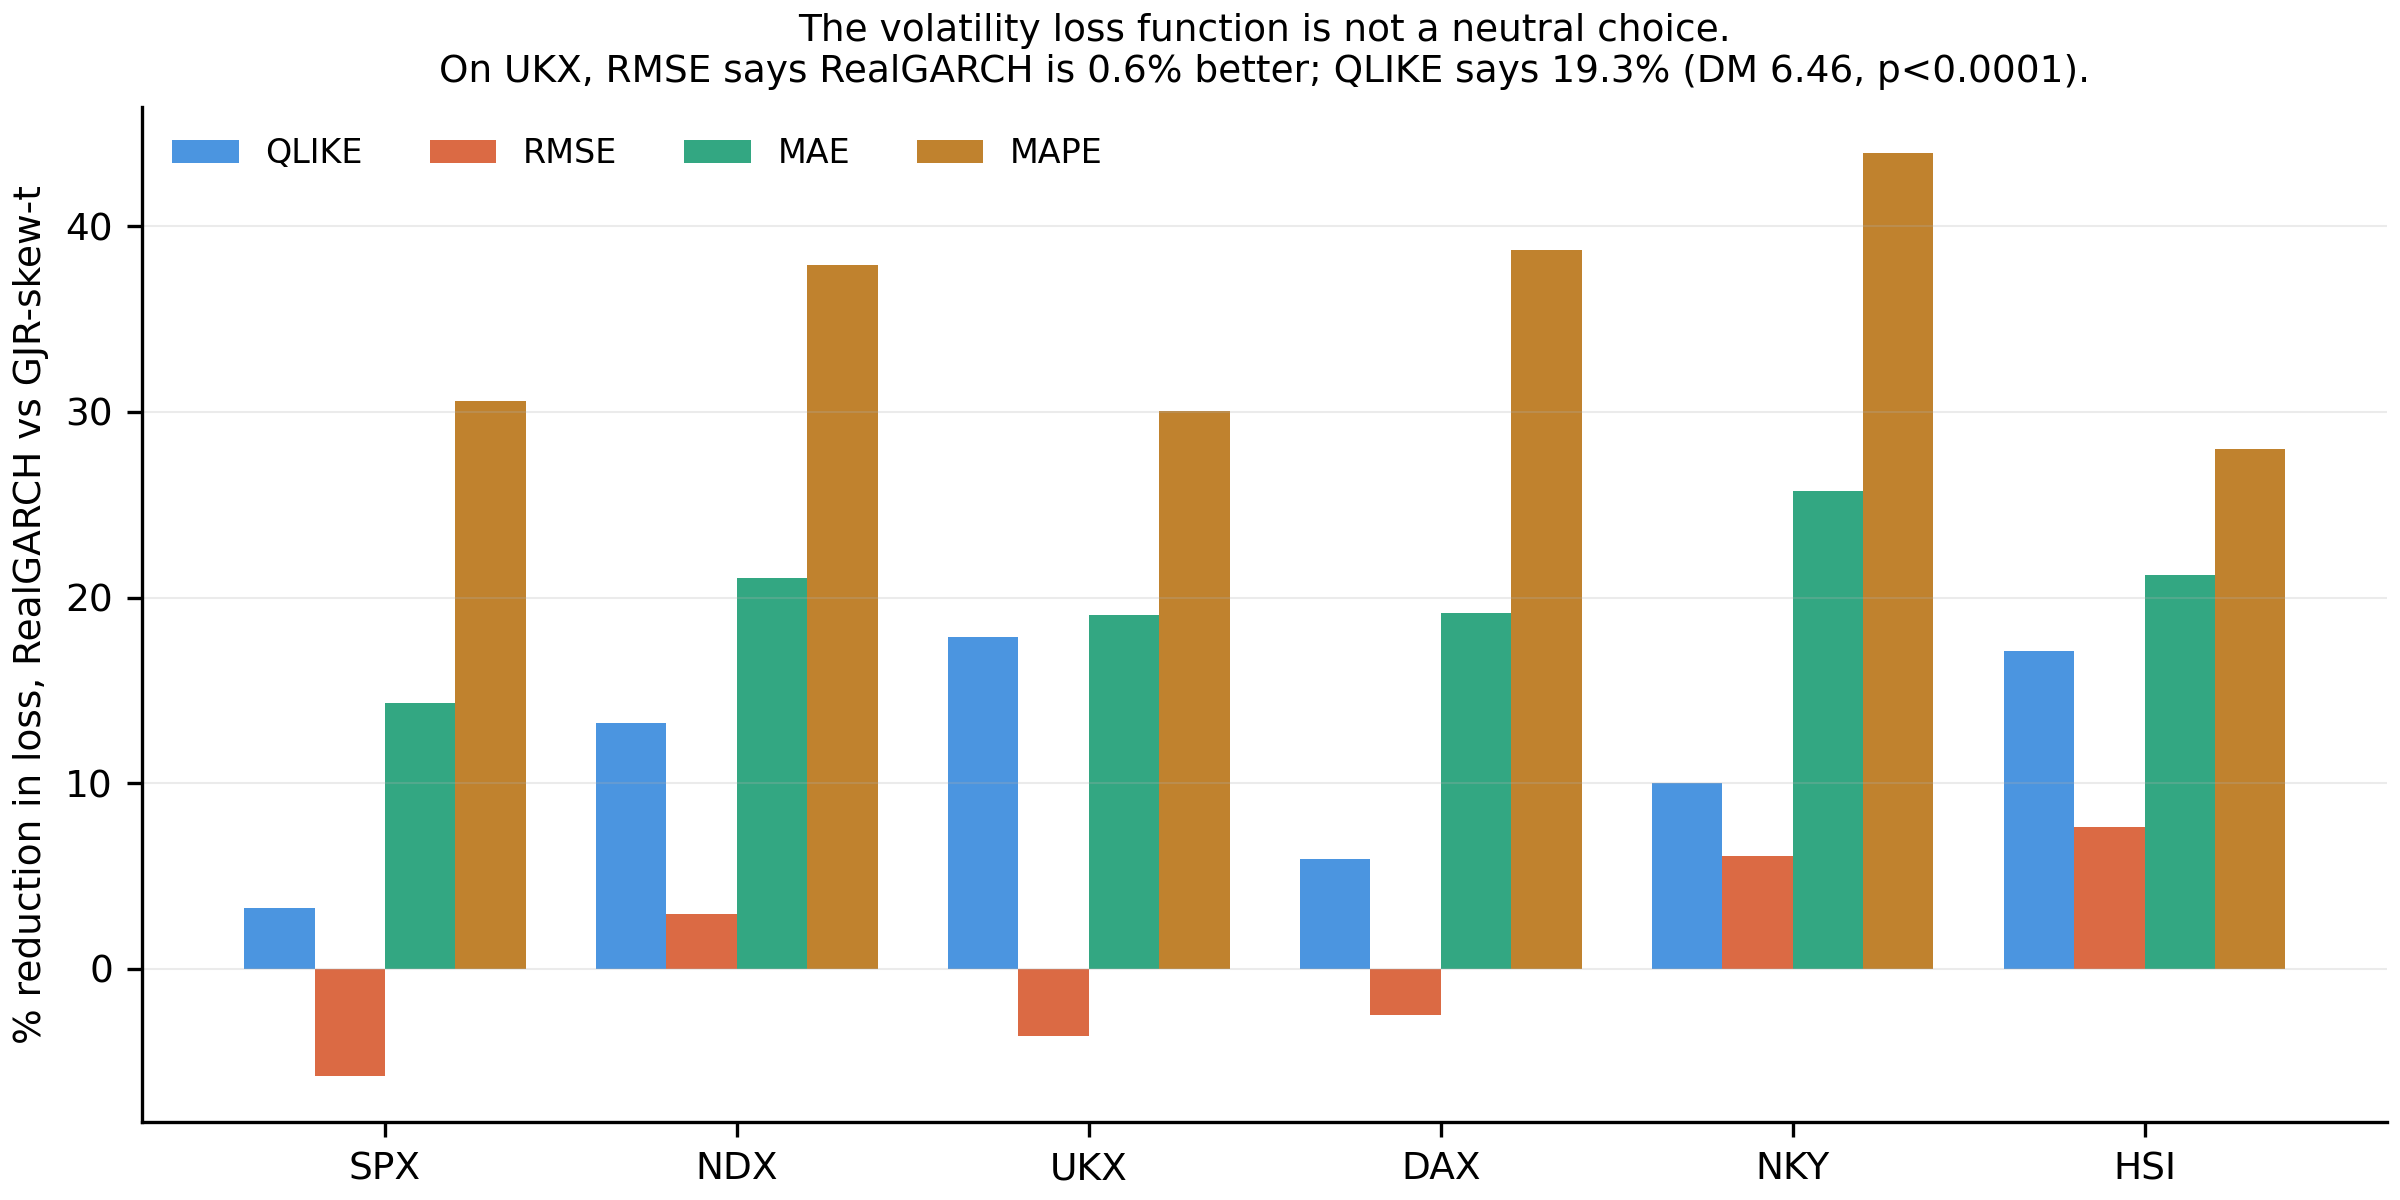
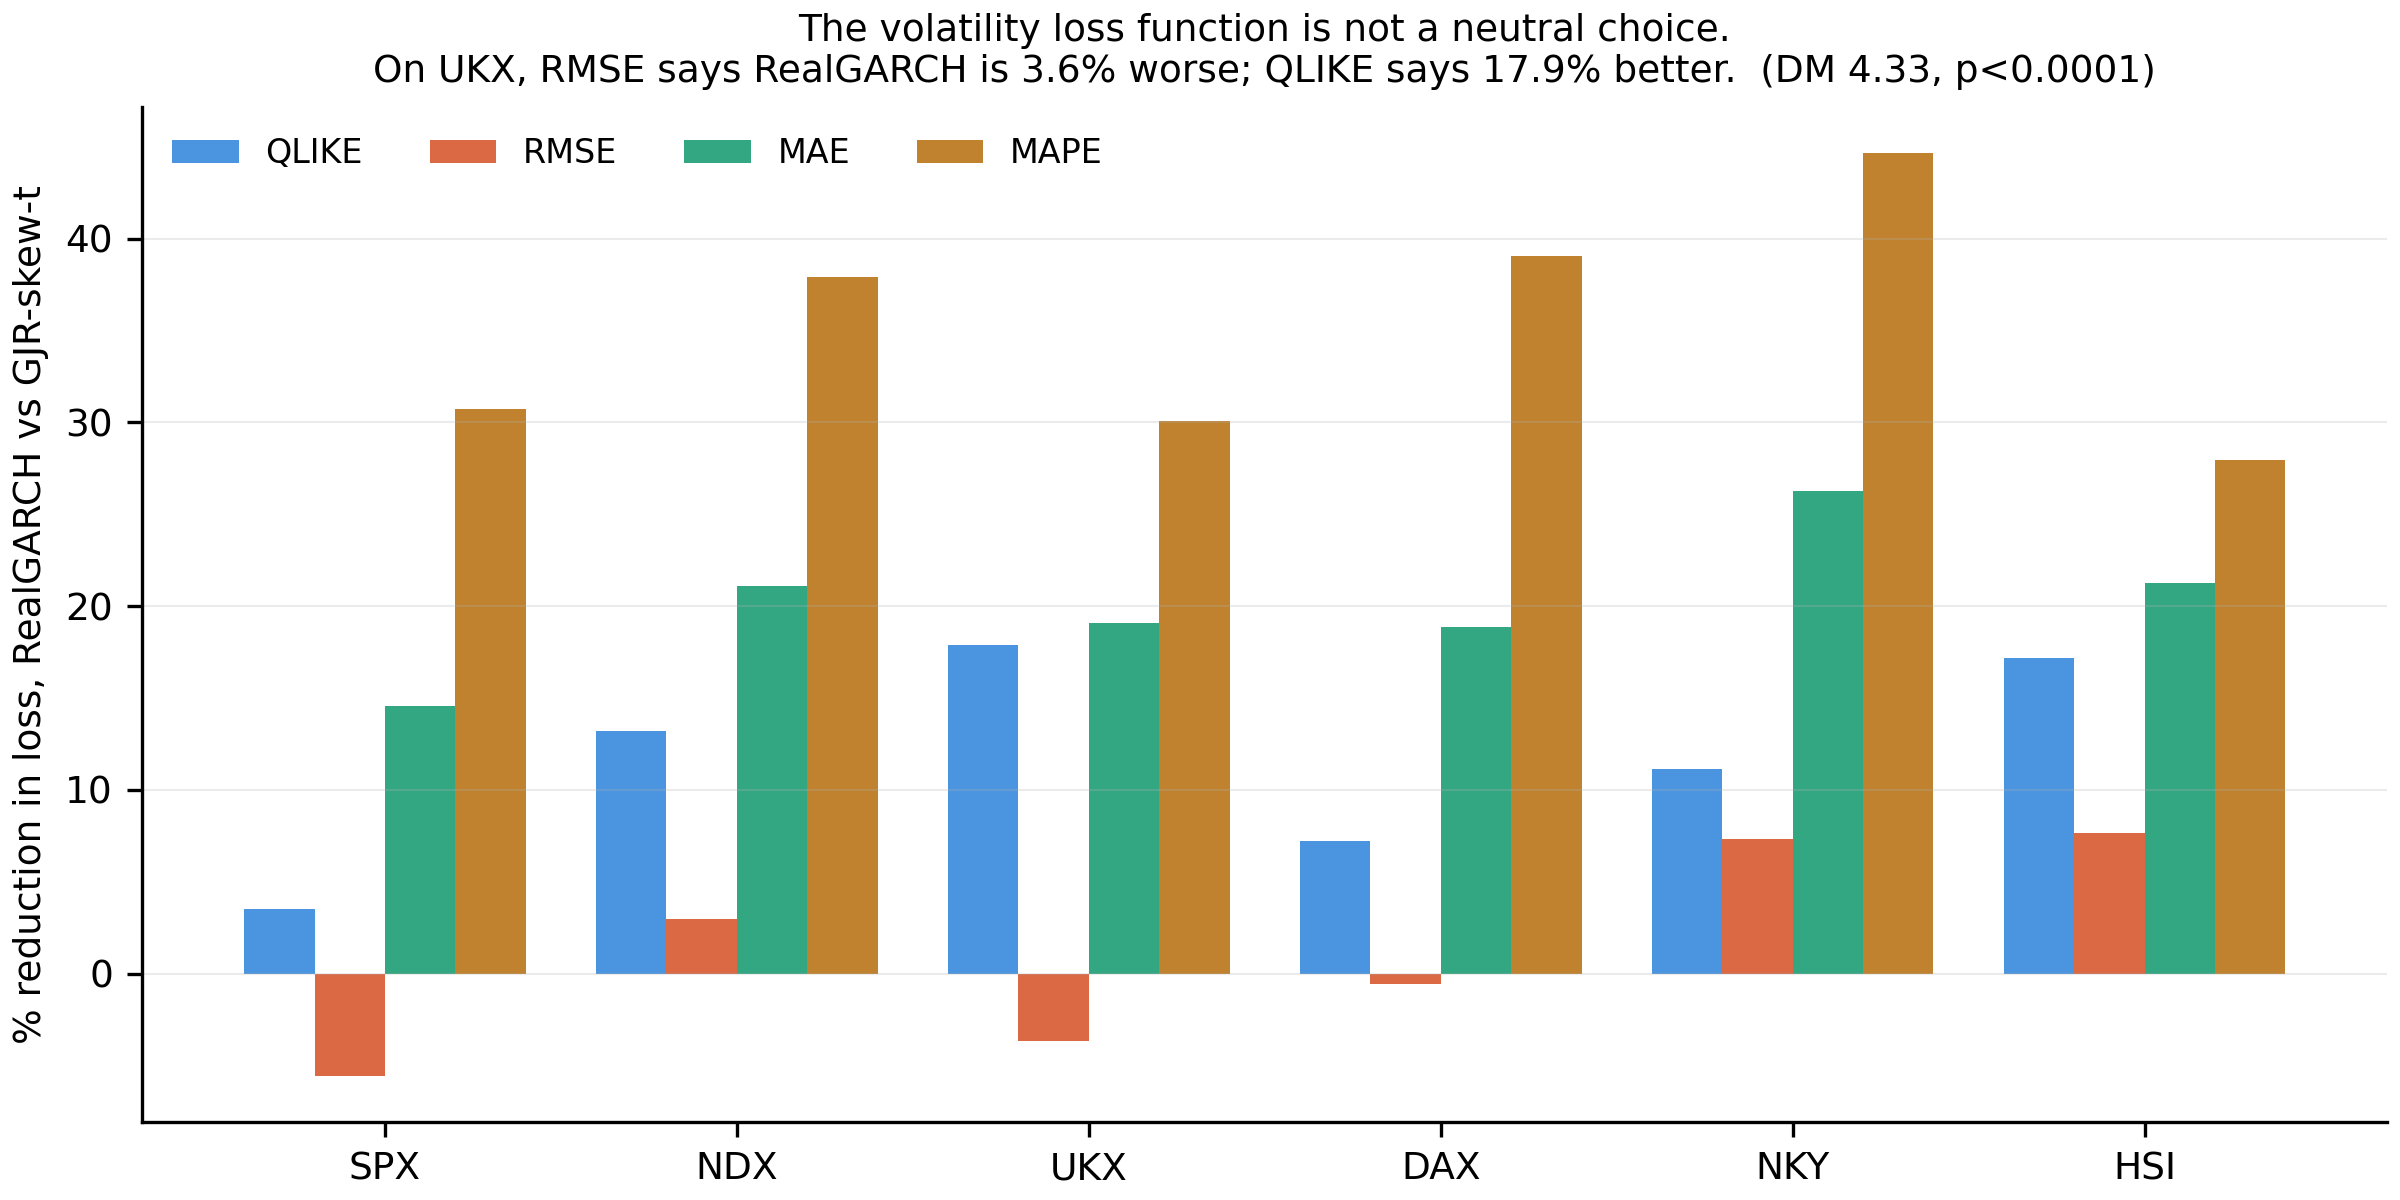
Fix hard-coded stale title and mixed evaluation window in 49_model_comparison
Verifying the FINAL_OUTPUTS manifest against the CSVs turned up two real
defects, not documentation slips.

1. 49_loss_metrics.png carried its caption as a frozen string literal
   while its bars were computed from the data. The caption claimed "On
   UKX, RMSE says RealGARCH is 0.6% better; QLIKE says 19.3% (DM 6.46,
   p<0.0001)". All three numbers are stale, almost certainly predating
   the walk-forward RealGARCH and causal-scaling fixes. Actual values:
   RMSE -3.6% (RealGARCH worse), QLIKE +17.9%, DM 4.33. The caption
   contradicted its own chart. The title is now derived from the data,
   and the exhibit index is picked as the widest QLIKE-minus-RMSE gap
   among indices where the two metrics disagree on sign, rather than
   being named in the string.

2. 49_qlike_vs_breach.png took its y-axis from the strict common window
   but its x-axis from 47a_volatility_losses.csv, the unrestricted file.
   Eight of the eighteen plotted cells therefore had a different sample
   on each axis (DAX worst, 3172 vs 2755 observations). The same frame
   fed the loss-metrics figure. It now loads the strict file with the
   same existence-check fallback already used for the backtests. The
   effect is visually negligible - QLIKE shifts at most 1.4% relative
   and no ranking changes - so no conclusion moves, but the figure is
   now internally consistent and matches the tables beside it.

Reran 49_model_comparison.py: 49_basel.csv, 49_basel_unrestricted.csv,
[…]

diff --git a/Datasets/10_SCRIPTS/49_model_comparison.py b/Datasets/10_SCRIPTS/49_model_comparison.py
@@ -207,7 +207,12 @@ def main():
                  fontsize=9.5)
     fig.savefig('results/figures/49_scorecard.png'); plt.close(fig)
 
-    vol = pd.read_csv('results/tables/47a_volatility_losses.csv')
+    # Must be the strict window, like `bt` above: the breach rate on the y-axis of
+    # 49_qlike_vs_breach is strict, so a QLIKE on the x-axis measured over a longer
+    # sample would put the two axes on different samples for 8 of the 18 cells.
+    _vol_strict = 'results/tables/47a_volatility_losses_strict.csv'
+    vol = pd.read_csv(_vol_strict if os.path.exists(_vol_strict)
+                      else 'results/tables/47a_volatility_losses.csv')
     fig, ax = plt.subplots(figsize=(7.4, 5.0), constrained_layout=True)
     for j, m in enumerate(VOL_MODELS):
         q = [vol[(vol['index'] == c) & (vol['model'] == m)]['QLIKE'].iloc[0] for c in INDICES]
@@ -247,18 +252,37 @@ def main():
     fig, ax = plt.subplots(figsize=(8.0, 4.0), constrained_layout=True)
     mets = ['QLIKE', 'RMSE', 'MAE', 'MAPE']
     x = np.arange(len(INDICES)); w = 0.2
+    red = {}
     for k, met in enumerate(mets):
         imp = []
         for c in INDICES:
             gg = vol[(vol['index'] == c) & (vol['model'] == 'GJR-skewt')][met].iloc[0]
             rr = vol[(vol['index'] == c) & (vol['model'] == 'RealGARCH')][met].iloc[0]
             imp.append(100*(gg-rr)/gg)
+        red[met] = dict(zip(INDICES, imp))
         ax.bar(x + (k-1.5)*w, imp, w, label=met, color=PAL[k], alpha=0.9)
     ax.set_xticks(x); ax.set_xticklabels(INDICES)
     ax.set_ylabel('% reduction in loss, RealGARCH vs GJR-skew-t')
+    # Pick the exhibit index from the data rather than hard-coding it: the widest
+    # QLIKE-minus-RMSE gap among indices where the two metrics disagree on sign.
+    _split = [c for c in INDICES
+              if red['QLIKE'][c] > 0 > red['RMSE'][c]] or list(INDICES)
+    _c = max(_split, key=lambda c: red['QLIKE'][c] - red['RMSE'][c])
+    _dmtxt = ''
+    _dmf = 'results/tables/47a_dm_volatility.csv'
+    if os.path.exists(_dmf):
+        _dm = pd.read_csv(_dmf)
+        _r = _dm[(_dm['index'] == _c) & (_dm.model_1 == 'GJR-skewt')
+                 & (_dm.model_2 == 'RealGARCH')]
+        if len(_r) and np.isfinite(_r.iloc[0]['p']):
+            _p = float(_r.iloc[0]['p'])
+            _dmtxt = (f"  (DM {float(_r.iloc[0]['dm_stat']):.2f}, "
+                      + (f"p<0.0001)" if _p < 1e-4 else f"p={_p:.4f})"))
+    _rm = red['RMSE'][_c]
     ax.set_title('The volatility loss function is not a neutral choice.\n'
-                 'On UKX, RMSE says RealGARCH is 0.6% better; QLIKE says 19.3% '
-                 '(DM 6.46, p<0.0001).', fontsize=9)
+                 f'On {_c}, RMSE says RealGARCH is {abs(_rm):.1f}% '
+                 f'{"worse" if _rm < 0 else "better"}; '
+                 f'QLIKE says {red["QLIKE"][_c]:.1f}% better.{_dmtxt}', fontsize=9)
     ax.legend(fontsize=8, ncol=4); ax.grid(alpha=0.25, lw=0.5, axis='y')
     fig.savefig('results/figures/49_loss_metrics.png'); plt.close(fig)
 

diff --git a/results/FINAL_OUTPUTS.md b/results/FINAL_OUTPUTS.md
@@ -17,7 +17,10 @@ the original filename is kept in the name so it traces back to the full results 
 opposite orders on them.** Realized GARCH has the lowest QLIKE on all six indices (best
 volatility forecasts), and simultaneously the worst 99% VaR breach rate on five of six —
 Basel *red* on four markets. GARCH-EVT is the mirror image: middling QLIKE, best-calibrated
-tail, Basel *green* on three and never red.
+tail, Basel *green* on four and never red.
+
+Every number below was checked against the CSVs on 2026-08-31, not carried over from an
+earlier draft.
 
 Every selection below either sets that claim up, demonstrates it, or qualifies it.
 
@@ -27,14 +30,14 @@ Every selection below either sets that claim up, demonstrates it, or qualifies i
 
 | # | File | What it shows | Section |
 |---|---|---|---|
-| 1 | `FIG1_41_threshold_stability.png` | GPD shape ξ vs POT threshold q, ±1 sampling SE. ξ is stable across 0.90–0.975 then explodes with sampling noise. | Methods — justifies q=0.95 |
-| 2 | `FIG2_41_qq_gpd.png` | GPD QQ plots of exceedances, all six indices. KS p = 0.49–0.95 everywhere. | Methods — EVT fit is valid |
+| 1 | `FIG1_41_threshold_stability.png` | GPD shape ξ vs POT threshold q, ±1 sampling SE (≈0.062). ξ drifts gently and stays inside the band from 0.90 to 0.975, then becomes erratic above it as the exceedance count collapses. | Methods — justifies q=0.95 |
+| 2 | `FIG2_41_qq_gpd.png` | GPD QQ plots of exceedances, all six indices. KS p = 0.49–0.95 at q=0.95; no index rejects. | Methods — EVT fit is valid |
 | 3 | `FIG3_43_var_breaches.png` | GARCH-EVT 99% VaR vs realised returns, six panels, breaches marked, crisis windows shaded. | Results — what the model does |
 | 4 | **`FIG4_49_qlike_vs_breach_HEADLINE.png`** | **QLIKE (x) vs 99% breach rate (y). The two axes rank the models in opposite orders. This is the paper's thesis in one scatter.** | **Results — headline** |
-| 5 | `FIG5_49_basel.png` | Basel traffic light, 6 indices × 5 models. RealGARCH red on 4, GARCH-EVT green on 3 and never red. | Results — regulatory payoff |
+| 5 | `FIG5_49_basel.png` | Basel traffic light, 6 indices × 5 models. RealGARCH red on 4 of 6; GARCH-EVT green on 4, amber on 2, never red. | Results — regulatory payoff |
 | 6 | `FIG6_48_crisis_heatmap.png` | Breach rate by regime (Normal, China/Oil, Q4-2018, COVID, 2022 rates), pooled over six indices. Every model degrades; RealGARCH and QR-Full worst (7.1% and 7.9% in COVID vs 1.0% target). | Results — regime conditioning |
 | 7 | `FIG7_45_qr_calibration.png` | QR-Full and QR-Range breach rates at 99/97.5/95%. The fifth model family's own calibration result. | Results — quantile regression |
-| 8 | `FIG8_49_loss_metrics.png` | RealGARCH vs GJR-skew-t under four loss functions. RMSE gives the **opposite sign** to QLIKE on SPX, UKX and DAX — on UKX, RMSE says RealGARCH is 0.6% *worse*, QLIKE says 19.3% better (DM 6.46, p<0.0001). | Discussion — the loss function is not neutral |
+| 8 | `FIG8_49_loss_metrics.png` | RealGARCH vs GJR-skew-t under four loss functions. RMSE gives the **opposite sign** to QLIKE on SPX, UKX and DAX — on UKX, RMSE says RealGARCH is 3.6% *worse* where QLIKE says 17.9% better (DM 4.33, p<0.0001). | Discussion — the loss function is not neutral |
 
 **Why these eight and not the others.** 1–2 defend the two methodological choices a
 referee will actually challenge (threshold selection, distributional fit). 3 is the only
@@ -93,7 +96,7 @@ Ranked by how close they came. The first is the one to promote if anything gets 
 
 ### Two things to do to these before they go in the manuscript
 
-1. **TAB4 is 91 rows — too long for a main-text table.** Filter to `confidence == 0.99`
+1. **TAB4 is 90 rows — too long for a main-text table.** Filter to `confidence == 0.99`
    (30 rows, one per index × model) for the paper and put the 97.5% and 95% rows in an
    appendix. The 99% level is where the models actually separate.
 2. **TAB6 has two regimes flagged `reportable = False`** — Volmageddon (n=53) and
@@ -130,6 +133,32 @@ Ranked by how close they came. The first is the one to promote if anything gets 
   in the results.
 - Per-index EVT diagnostics (`42_evt_diagnostics_*.csv`, ~420 KB each) and all forecast
   files — raw output, never printed.
+
+---
+
+## Two bugs found while verifying this selection (both fixed 2026-08-31)
+
+Checking the manifest's numbers against the CSVs turned up two real defects in
+`49_model_comparison.py`, not just documentation slips. Both are fixed and the affected
+figures regenerated; `49_basel.csv`, `49_mcs.csv`, `49_dm_pinball.csv` and
+`49_strict_window.csv` were byte-identical after the rerun, so no table changed.
+
+1. **`49_loss_metrics.png` carried a hard-coded title.** The caption read "On UKX, RMSE
+   says RealGARCH is 0.6% better; QLIKE says 19.3% (DM 6.46, p<0.0001)" as a frozen string
+   literal, while the bars were computed from the data. All three numbers were stale —
+   almost certainly from before the walk-forward RealGARCH and causal-scaling fixes. The
+   correct values are RMSE **−3.6%** (RealGARCH *worse*), QLIKE **+17.9%**, DM **4.33**.
+   The caption contradicted its own chart and would have put wrong numbers in the paper.
+   The title is now computed from the data, and the exhibit index is chosen from it rather
+   than hard-coded.
+2. **The headline figure mixed two evaluation windows.** `49_qlike_vs_breach.png` took its
+   y-axis (breach rate) from the strict common window but its x-axis (QLIKE) from
+   `47a_volatility_losses.csv`, the *unrestricted* file — so 8 of the 18 plotted cells had
+   a different sample on each axis, DAX worst at 3172 vs 2755 observations. The same `vol`
+   frame fed FIG8. Now loads the strict file, matching the fallback pattern already used
+   for the backtests. The effect on FIG4 is visually negligible (QLIKE moves at most 1.4%
+   relative, no ranking changes) — the conclusion never depended on it — but the figure is
+   now internally consistent and matches the tables beside it.
 
 ---
 
